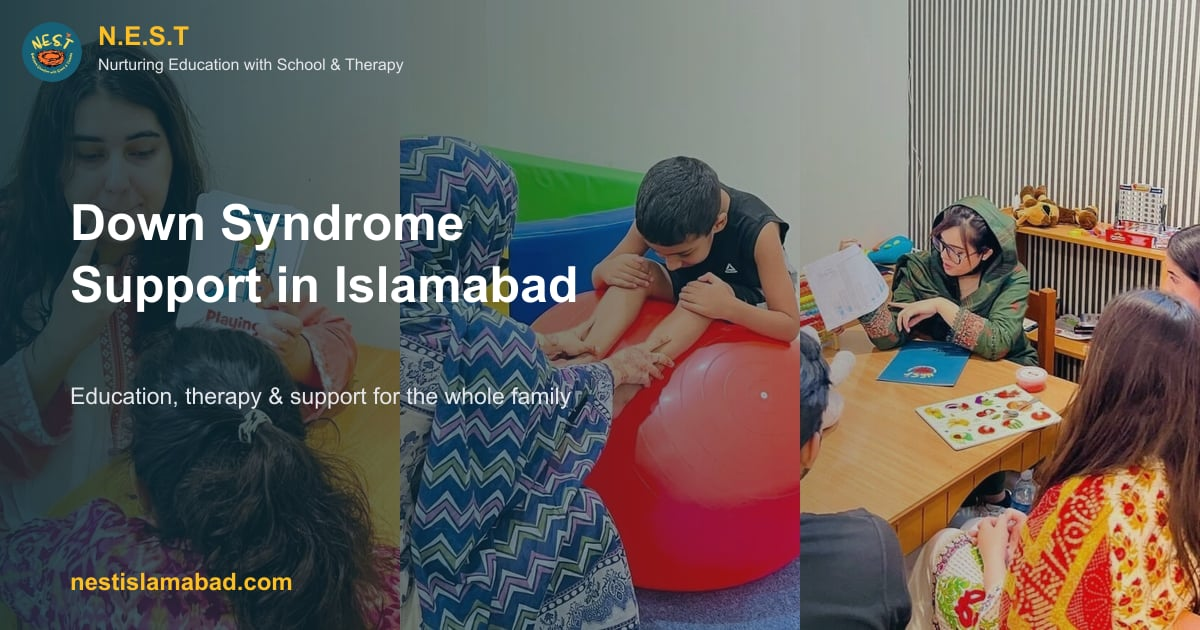
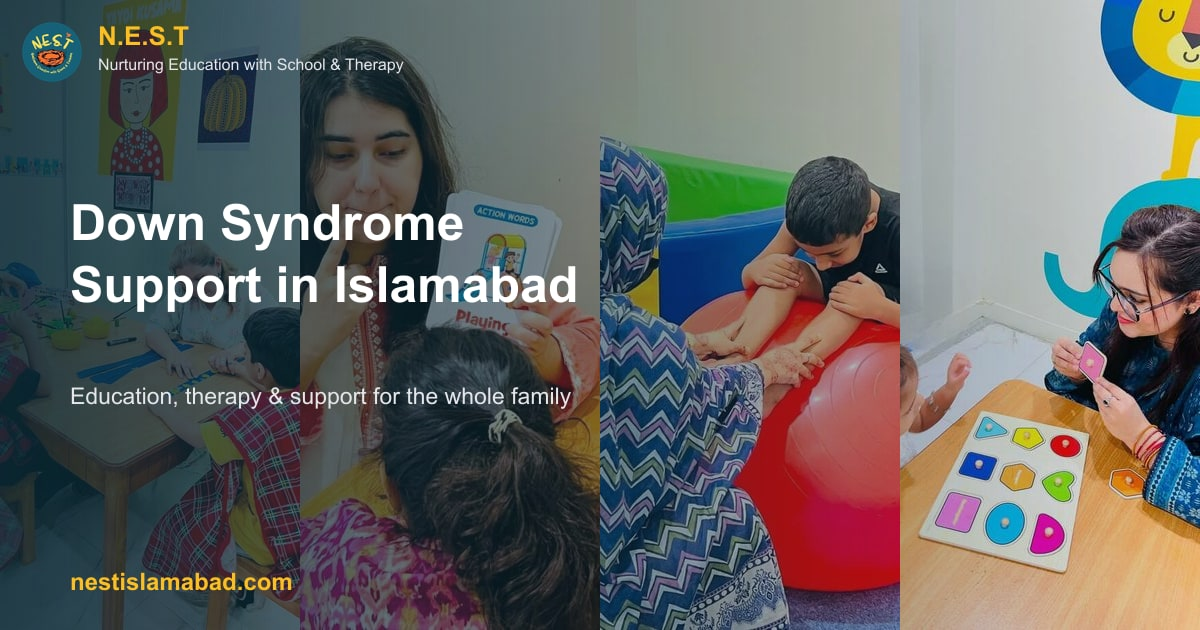
Add 4th hero photo to Down Syndrome page and refresh OG images
- Down Syndrome hero mosaic now shows 4 photos (adds autism-art-session,
  swaps family-support for aba-shapes) instead of 3
- Regenerated that page's OG image to match the new hero photo order
- Added OG images for the two new blog articles published earlier

diff --git a/down-syndrome-support-islamabad.html b/down-syndrome-support-islamabad.html
@@ -130,16 +130,17 @@ nav.scrolled{box-shadow:0 4px 24px rgba(0,0,0,0.08)}
   background:#071e2a;
   overflow:hidden;
 }
-/* 3-photo mosaic background (matches Gallery hero style) */
-.se-grid-bg{position:absolute;inset:0;z-index:0;display:grid;grid-template-columns:repeat(3,1fr);gap:3px;background:#071e2a}
+/* 4-photo mosaic background (matches Gallery hero style) */
+.se-grid-bg{position:absolute;inset:0;z-index:0;display:grid;grid-template-columns:repeat(4,1fr);gap:3px;background:#071e2a}
 .se-cell{overflow:hidden;position:relative}
 .se-cell::after{content:'';position:absolute;inset:0;background-size:cover;background-position:center;animation:seKB var(--dur,26s) ease-in-out infinite alternate;animation-delay:var(--delay,0s);will-change:transform;filter:brightness(0.85) saturate(0.9)}
 @keyframes seKB{0%{transform:scale(1) translate(0,0)}100%{transform:scale(1.08) translate(-1%,-1%)}}
+.se-c0::after{background-image:image-set(url('images/autism-art-session.avif') type('image/avif'),url('images/autism-art-session.jpeg') type('image/jpeg'));background-position:center 30%;--dur:26s;--delay:-9s}
 .se-c1::after{background-image:image-set(url('images/speech-therapy.avif') type('image/avif'),url('images/speech-therapy.jpeg') type('image/jpeg'));background-position:center 35%;--dur:24s;--delay:0s}
 .se-c2::after{background-image:image-set(url('images/occupational-therapy.avif') type('image/avif'),url('images/occupational-therapy.jpeg') type('image/jpeg'));background-position:center 40%;--dur:28s;--delay:-6s}
-.se-c3::after{background-image:image-set(url('images/family-support.avif') type('image/avif'),url('images/family-support.jpeg') type('image/jpeg'));background-position:center 30%;--dur:22s;--delay:-3s}
+.se-c3::after{background-image:image-set(url('images/aba-shapes.avif') type('image/avif'),url('images/aba-shapes.jpeg') type('image/jpeg'));background-position:center 30%;--dur:22s;--delay:-3s}
 @media(prefers-reduced-motion:reduce){.se-cell::after{animation:none}}
-@media(max-width:600px){.se-grid-bg{grid-template-columns:1fr 1fr}.se-c3{display:none}}
+@media(max-width:600px){.se-grid-bg{grid-template-columns:1fr 1fr}.se-c0{display:none}.se-c3{display:none}}
 .page-hero::before{
   content:'';position:absolute;inset:0;
   background:
@@ -729,6 +730,7 @@ html.nest-modal-open,html.nest-modal-open body{overflow:hidden!important;touch-a
 <main>
 <section class="page-hero">
   <div class="se-grid-bg" aria-hidden="true">
+    <div class="se-cell se-c0"></div>
     <div class="se-cell se-c1"></div>
     <div class="se-cell se-c2"></div>
     <div class="se-cell se-c3"></div>
